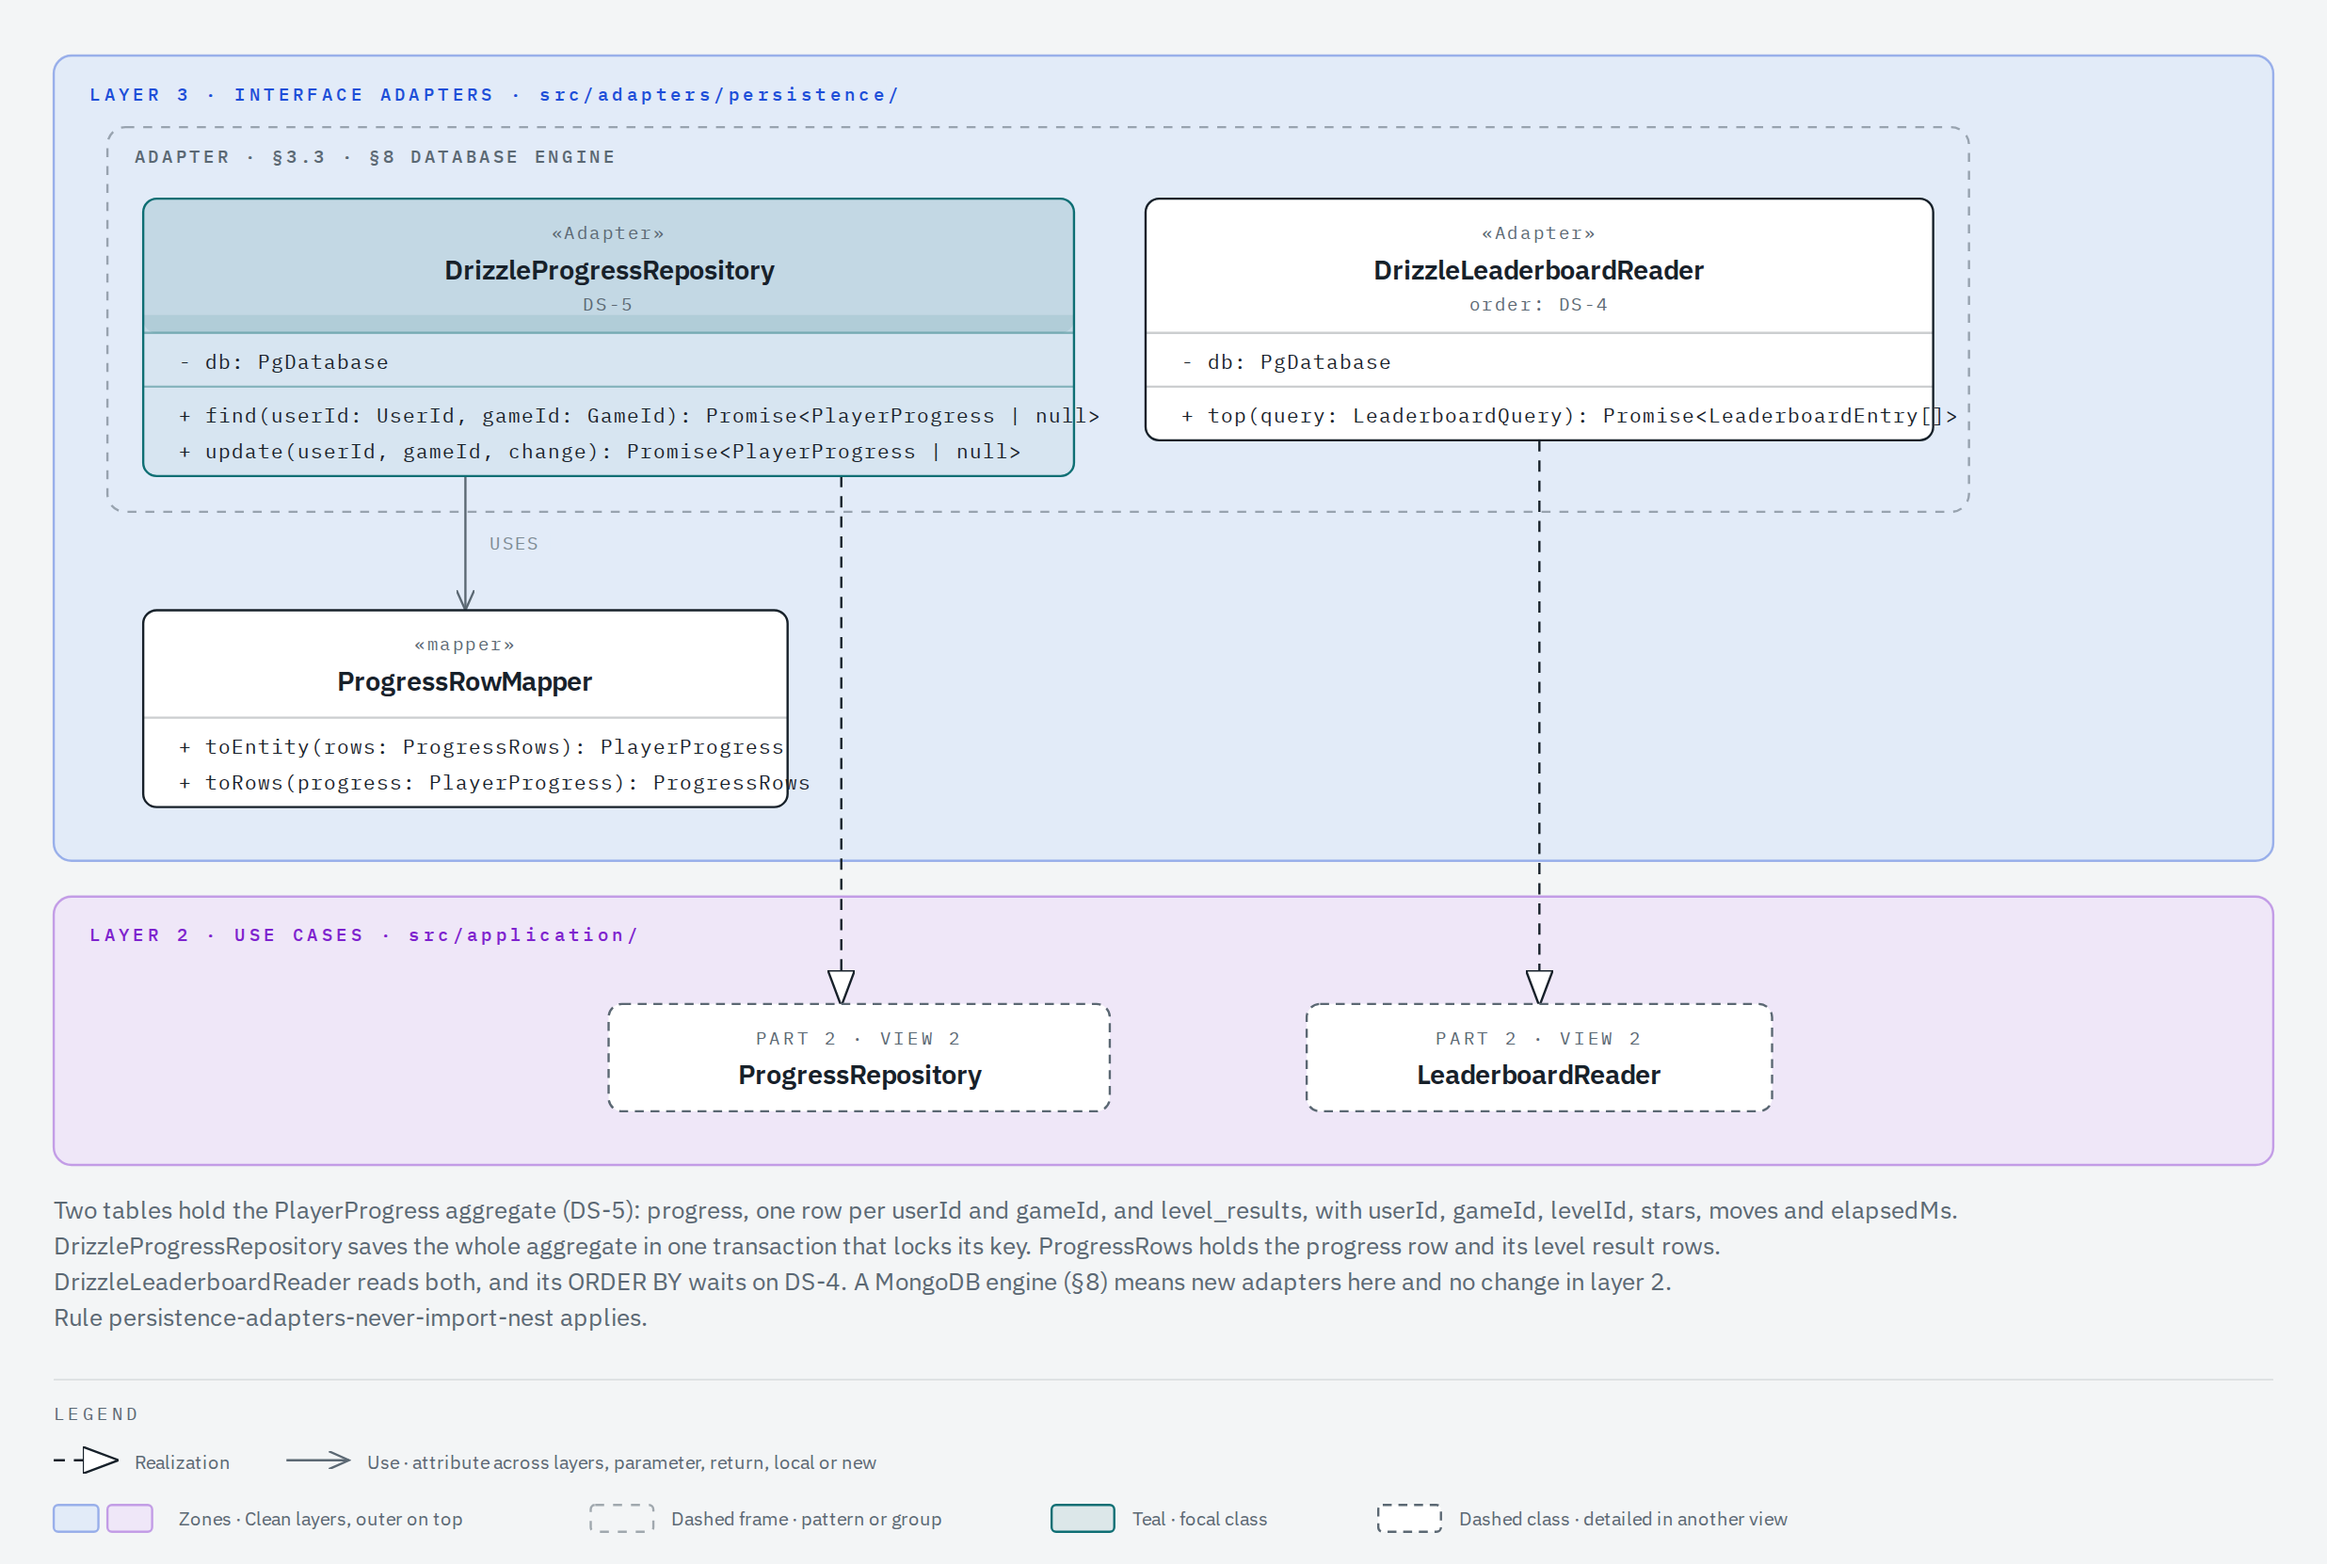
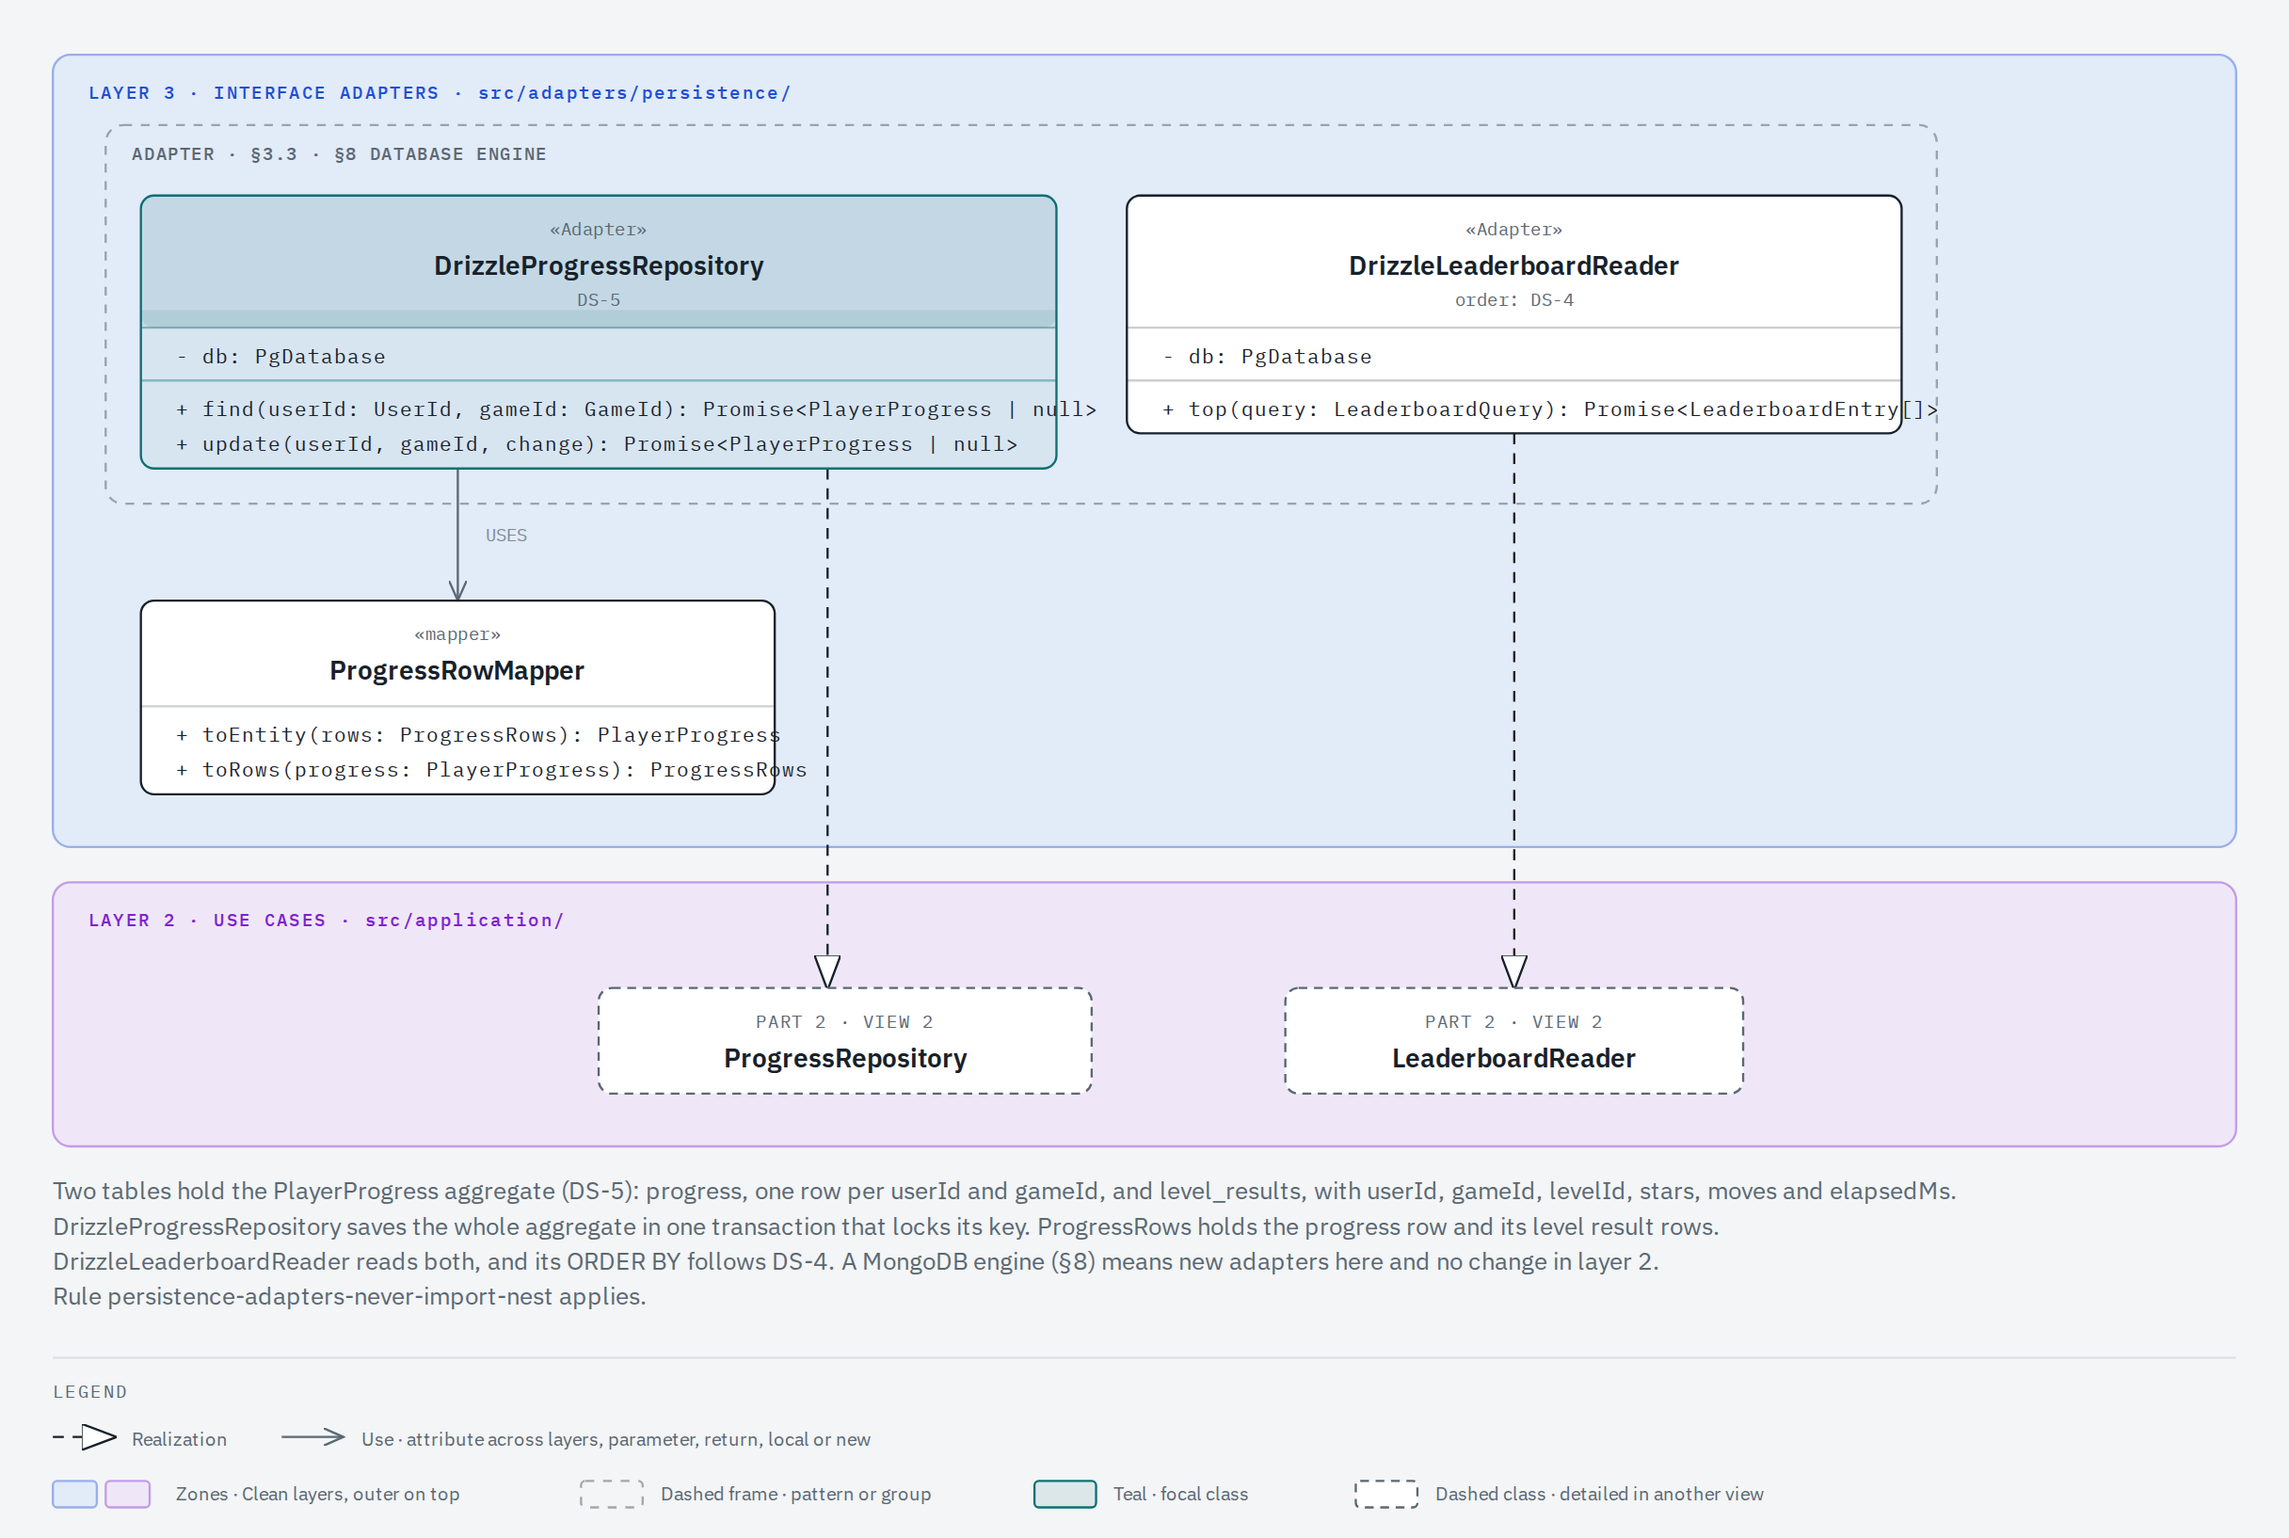
docs(architecture): rank the leaderboard and keep results by DS-4
The class, flow and view docs no longer say that DS-4 is open or that the
last result wins. View 2 of the domain draws LevelResult.isBetterThan, and
the three changed views are exported again at scale 2.

diff --git a/docs/architecture/classes/views/domain-1-progress.html b/docs/architecture/classes/views/domain-1-progress.html
@@ -74,8 +74,8 @@
         <desc id="domain1progress-desc">
           Class diagram of layer 1 showing PlayerProgress, the aggregate root keyed by userId and
           gameId, which refers to User by userId, holds a GameId and keeps its LevelResult values
-          with levelId, stars, moves and elapsedMs, and the LeaderboardEntry read model that holds a
-          LevelResult.
+          with levelId, stars, moves and elapsedMs and the isBetterThan order of DS-4, and the
+          LeaderboardEntry read model that holds a LevelResult.
         </desc>
         <defs>
           <marker
@@ -118,7 +118,7 @@
           x="376"
           y="64"
           width="328"
-          height="436"
+          height="452"
           rx="8"
           fill="none"
           stroke="rgba(91,104,115,0.55)"
@@ -359,7 +359,7 @@
           x="400"
           y="344"
           width="280"
-          height="140"
+          height="164"
           rx="6"
           fill="#ffffff"
           stroke="#17212a"
@@ -411,6 +411,10 @@
         </text>
         <text x="416" y="476" fill="#17212a" font-size="9" font-family="'IBM Plex Mono', monospace">
           + elapsedMs: number
+        </text>
+        <line x1="400" y1="484" x2="680" y2="484" stroke="rgba(23,33,42,0.22)" stroke-width="1" />
+        <text x="416" y="500" fill="#17212a" font-size="9" font-family="'IBM Plex Mono', monospace">
+          + isBetterThan(other: LevelResult): boolean
         </text>
         <!-- Class: GameId («value object») -->
         <rect
@@ -525,7 +529,7 @@
           font-family="'IBM Plex Sans', sans-serif"
         >
           ProgressRepository saves the whole aggregate; its adapter splits it into the progress and
-          level_results tables (DS-5). Every attempt or only the best one: DS-4.
+          level_results tables (DS-5). recordLevel() keeps the best result of a level (DS-4).
         </text>
         <text
           x="24"

diff --git a/docs/architecture/classes/views/uc-2-progress.html b/docs/architecture/classes/views/uc-2-progress.html
@@ -72,7 +72,7 @@
         <desc id="uc2progress-desc">
           Class diagram of layer 2 showing SyncProgressUseCase, which holds the ProgressRepository
           port for the whole progress aggregate and the Clock port, and GetLeaderboardUseCase, which
-          holds the LeaderboardReader port whose order is still open in DS-4.
+          holds the LeaderboardReader port, which ranks by the order of DS-4.
         </desc>
         <defs>
           <marker
@@ -502,8 +502,8 @@
           font-size="11"
           font-family="'IBM Plex Sans', sans-serif"
         >
-          records the score and each level result, and saves the whole aggregate (DS-5). The order
-          of LeaderboardReader.top() is DS-4, still open.
+          records the score and each level result, and saves the whole aggregate (DS-5).
+          LeaderboardReader.top() ranks by DS-4: stars, then moves, then time.
         </text>
         <text
           x="24"

diff --git a/docs/architecture/classes/views/ad-1-progress-store.html b/docs/architecture/classes/views/ad-1-progress-store.html
@@ -489,7 +489,7 @@
           font-size="11"
           font-family="'IBM Plex Sans', sans-serif"
         >
-          DrizzleLeaderboardReader reads both, and its ORDER BY waits on DS-4. A MongoDB engine (§8)
+          DrizzleLeaderboardReader reads both, and its ORDER BY follows DS-4. A MongoDB engine (§8)
           means new adapters here and no change in layer 2.
         </text>
         <text

diff --git a/docs/architecture/classes.md b/docs/architecture/classes.md
@@ -116,7 +116,7 @@ The Sort `stars` field is a list of `SortStarThreshold`, each one a `maxMoves` c
 
 The API rejects a Fit level that fails A5: the piece areas differ from the figure area, or the witness does not cover the figure exactly. `UpdateLevelsUseCase` checks every level before it saves any level.
 
-**DS-4 stays open.** It decides what orders the per-level leaderboard (stars, moves, time) for Fit and Sort. `LeaderboardReader` and its Drizzle adapter wait on it.
+**DS-4 is closed** (2026-11-06, [#24](https://github.com/Hexablock-Suite/hexablock-api/issues/24)). The best result of a level has more stars; on equal stars, fewer moves; on equal moves, less time. On a full tie, the stored result stays. `LevelResult.isBetterThan()` holds this order, and `PlayerProgress.recordLevel()` keeps the best result of each level (DS-12). The same order ranks the per-level leaderboard of Fit and Sort. `LeaderboardReader` and its Drizzle adapter are not built yet.
 
 ## Patterns
 
@@ -149,7 +149,7 @@ Plain classes: `LevelValidators`, the row mappers, the HTTP mappers, `Leaderboar
 ## Decisions to check with the team
 
 1. **Ports in the application layer.** The class of 2026-10-30 answered Q10: the ports belong to the application layer. Every port in this diagram is in `src/application/`, and the code has `Clock` in `src/application/ports/clock.ts`. Domain code never imports a port: a method such as `recordScore(score, at)` takes the instant as a parameter.
-2. **One progress aggregate over two tables (DS-5).** The domain comes first: `PlayerProgress` is the aggregate root, one per `userId` and `gameId`. It keeps its `LevelResult` values and is the only way to record one, so `LevelResult` has no repository and no `userId` or `gameId` of its own. `ProgressRepository` reads the whole aggregate with `find()` and changes it with `update(userId, gameId, change)`. `update()` holds a lock for the `userId` and `gameId`, passes the stored aggregate or `null` to the change, and saves the whole aggregate that the change returns. So two overlapping syncs of one key run one after the other. The rules, such as the highest score, stay in the domain; the adapter adds none. `DrizzleProgressRepository` splits it into the two tables of DS-5: `progress` keeps one row per `userId` and `gameId`, and `level_results` keeps `userId`, `gameId`, `levelId`, `stars`, `moves` and `elapsedMs`. Whether the aggregate keeps every attempt or only the best one waits on DS-4, because "best" needs the order. `LeaderboardReader` stays a read model.
+2. **One progress aggregate over two tables (DS-5).** The domain comes first: `PlayerProgress` is the aggregate root, one per `userId` and `gameId`. It keeps its `LevelResult` values and is the only way to record one, so `LevelResult` has no repository and no `userId` or `gameId` of its own. `ProgressRepository` reads the whole aggregate with `find()` and changes it with `update(userId, gameId, change)`. `update()` holds a lock for the `userId` and `gameId`, passes the stored aggregate or `null` to the change, and saves the whole aggregate that the change returns. So two overlapping syncs of one key run one after the other. The rules, such as the highest score, stay in the domain; the adapter adds none. `DrizzleProgressRepository` splits it into the two tables of DS-5: `progress` keeps one row per `userId` and `gameId`, and `level_results` keeps `userId`, `gameId`, `levelId`, `stars`, `moves` and `elapsedMs`. The aggregate keeps only the best result of each level (DS-12) by the order of DS-4: `recordLevel()` keeps a new result only when `LevelResult.isBetterThan()` ranks it above the stored one. `LeaderboardReader` stays a read model.
 3. **The progress row fields (proposal).** DS-5 fixes the key. `highScore` and `updatedAt` are our proposal: the app keeps a high score for Lines and Merge, and the use case reads the instant from the Clock port and passes it to the domain.
 4. **One generic level type (DS-6).** `LevelDefinition<TSection>` holds the common part, and `TSection` is `FitSection` or `SortSection`. `AnyLevel` is `LevelDefinition<unknown>`: a level whose section no validator has checked yet. `LevelDto` checks the shape of the common part in layer 3. The validator of each `gameId` checks the shape of its section and its rules in layer 1, for example A5 for Fit. Lines and Merge have no level files (API-FR-04).
 5. **Validators registered by `gameId`.** `LevelValidators` holds a `Map<GameId, LevelValidator<unknown>>`, and the composition root fills it with one entry per variant that has levels. Each validator checks the shape of its section (`isSection()`) and its rules (`check()`). `LevelRowMapper` and `LevelDtoMapper` keep the section as they receive it and never read `gameId`. `GameId` is an open value object, not a closed list. So a new variant with levels adds a section type, a validator and one entry in the composition root, and it changes no existing class. A `gameId` with no entry has no level files, and an update for it fails with a level problem.

diff --git a/docs/architecture/flows.md b/docs/architecture/flows.md
@@ -55,7 +55,7 @@ The other four use cases follow a path that one of the three flows already draws
 | -------------------------- | ----------------------------- | ----------------------------------------------------------------------------------------------------------------------------------------------------------------------------------------------------------------------------------------------------------------------- |
 | `RegisterUseCase`          | `AuthController.signUp()`     | Same path as flow 2, except: the controller calls the `RegisterUser` input port; the use case hashes the password with `PasswordHasher.hash()` and adds the `User` through `UserRepository.add()`. It holds no `TokenIssuer` and returns a `UserId`.                    |
 | `AuthenticateTokenUseCase` | none: `JwtAuthGuard` calls it | The `ref AuthenticateToken` box of flows 1 and 3. Same path as flow 2, except: `JwtAuthGuard` calls the `AuthenticateToken` input port, and the use case only asks `TokenIssuer.verify()`. A `null` becomes a failed `Result`, and the guard answers 401 (decision 14). |
-| `GetLeaderboardUseCase`    | `LeaderboardController.top()` | Same path as flow 1, except: no guard; the use case holds only the `LeaderboardReader` port, which `DrizzleLeaderboardReader` implements, and returns `LeaderboardEntry` read models. It reads no `Clock` and saves nothing. Its order waits on DS-4.                   |
+| `GetLeaderboardUseCase`    | `LeaderboardController.top()` | Same path as flow 1, except: no guard; the use case holds only the `LeaderboardReader` port, which `DrizzleLeaderboardReader` implements, and returns `LeaderboardEntry` read models. It reads no `Clock` and saves nothing. It ranks by DS-4: stars, moves, then time. |
 | `GetLevelsUseCase`         | `LevelsController.list()`     | Same path as flow 3, except: no guard, because only the update is guarded; the use case only calls `LevelRepository.list()`, so no validator runs; `LevelDtoMapper.toDto()` builds each `LevelDto`.                                                                     |
 
 ## How to read the class view

diff --git a/README.md b/README.md
@@ -21,7 +21,8 @@ HexaBlock API is the REST backend of the four HexaBlock games. It serves the cli
 - **Accounts (API-FR-01):** sign-up and sign-in with JWT.
 - **Progress (API-FR-02):** progress sync, one entry per user and per `gameId`.
 - **Leaderboard (API-FR-03):** a global leaderboard per `gameId`, and a per-level leaderboard for
-  Fit and Sort. What orders the per-level leaderboard is still open (DS-4).
+  Fit and Sort. The per-level leaderboard ranks more stars first, then fewer moves, then less
+  time (DS-4).
 - **Levels (API-FR-04):** read and update the level definitions of Fit and Sort, so new levels
   reach players without an app update.
 - **API docs (API-FR-05):** Swagger at `/docs` and the committed `openapi/openapi.json`.
